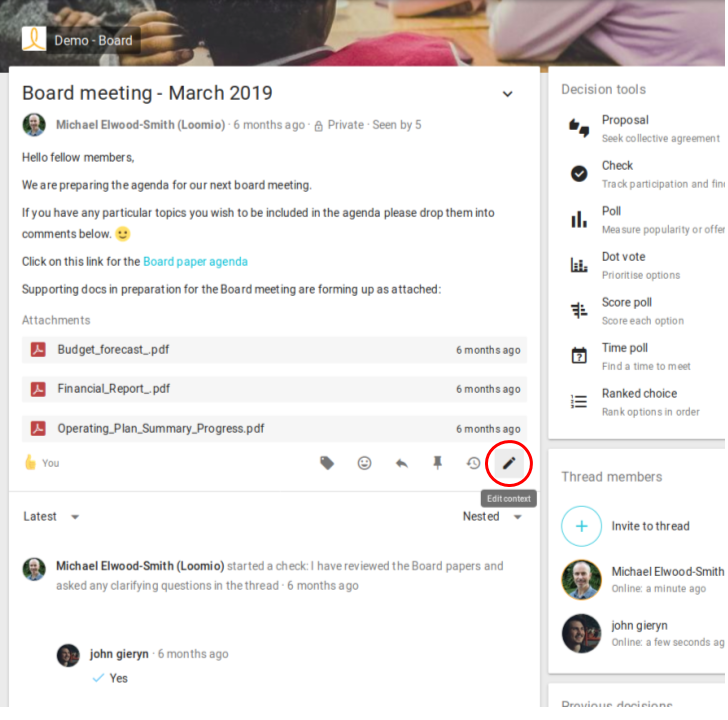
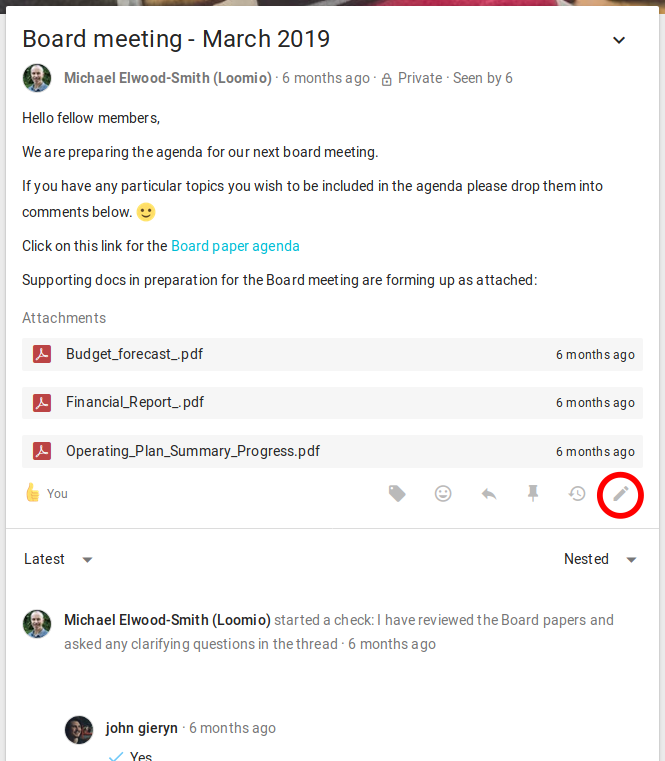
improve the edit context picture and add written instruction

diff --git a/content/user_manual/getting_started/having_discussions/index.md b/content/user_manual/getting_started/having_discussions/index.md
@@ -109,6 +109,8 @@ If a topic progresses offline, update the Loomio thread with the new information
 
 Loomio threads are designed to evolve with a discussion, which is why the title and context box are editable. The thread context always remains at the top of the thread in order to frame and guide the conversation or decision. Make it easy for people have a clear, shared understanding of where things are at, or to catch up, by updating the thread context and title with the latest info. This also helps you later if you want to refer back to a previous discussion and quickly remind yourself what happened.
 
+The pencil icon is the quickest way to edit a thread context and title.
+
 ![Edit button for thread context within the app](edit_context.png)
 
 Here's an example in which the facilitator is notifying the group what has happened as a result of their agenda suggestions.
